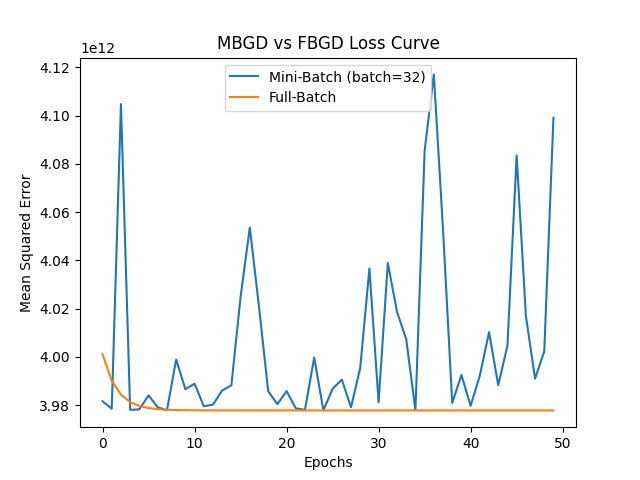
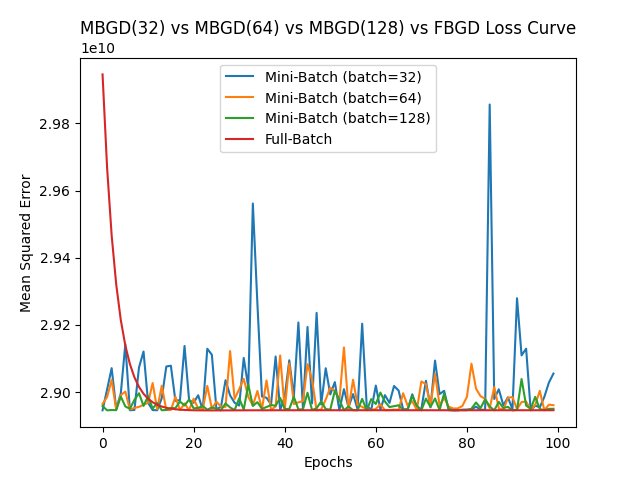
removed outliers and did hyperparameter tuning

diff --git a/model_analysis.py b/model_analysis.py
@@ -2,20 +2,35 @@ import numpy as np
 import pandas as pd
 import matplotlib.pyplot as plt
 from minibatch import MiniBatch
+from data_cleaning import Data_cleaning
+from hyperparameter_tuning import Hyperparameter_tuning
 from sklearn.model_selection import train_test_split
 from sklearn.preprocessing import StandardScaler
 from sklearn.metrics import mean_squared_error
+hyperparameter_tuning = Hyperparameter_tuning()
+data_cleaning = Data_cleaning()
 
 # load data
 data = pd.read_csv("data.csv")
 
-# get features for income
-X = pd.get_dummies(data.drop(columns=["Income"]), drop_first=True)
-y = data["Income"].values
+# set seed
+np.random.seed(60)
+
+# remove data with outliers 
+cleaned_data = data_cleaning.remove_outliers(data, ["Income", "Work_Experience"])
+
+# feature selection
+selected_features = ["Education_Level", "Occupation", "Location", "Work_Experience", "Employment_Status", "Gender"]
+
+X = cleaned_data[selected_features]
+y = cleaned_data["Income"].values
+
+X = pd.get_dummies(X, drop_first=True)
 
 # standardize features
 scaler = StandardScaler()
 X_scaled = scaler.fit_transform(X)
+#y = scaler.fit_transform(y.reshape(-1, 1)).flatten()
 
 # intercept 
 X_scaled = np.c_[np.ones(X_scaled.shape[0]), X_scaled]
@@ -23,35 +38,52 @@ X_scaled = np.c_[np.ones(X_scaled.shape[0]), X_scaled]
 # train/test split
 X_train, X_test, y_train, y_test = train_test_split(X_scaled, y, test_size=0.2, random_state=42)
 
-# call MBGD
-mb_model = MiniBatch()
-mb_loss = mb_model.fit(X_train, y_train, lr=0.01, epochs=50, batch_size=32)
+# hyperparameter tuning
+best_learning_rate, best_regularization_parameter, best_epoch = hyperparameter_tuning.get_best_param(X_train, X_test, y_train, y_test)
+
+# call MBGD batch size 32
+mb_model_size32 = MiniBatch()
+mb_loss_size32 = mb_model_size32.fit(X_train, y_train, lr=best_learning_rate, epochs=best_epoch, batch_size=32, regularization_parameter=best_regularization_parameter)
+
+# call MBGD2 batch size 64
+mb_model_size64 = MiniBatch()
+mb_loss_size64 = mb_model_size64.fit(X_train, y_train, lr=best_learning_rate, epochs=best_epoch, batch_size=64, regularization_parameter=best_regularization_parameter)
+
+# call MBGD2 batch size 128
+mb_model_size128 = MiniBatch()
+mb_loss_size128 = mb_model_size128.fit(X_train, y_train, lr=best_learning_rate, epochs=best_epoch, batch_size=128, regularization_parameter=best_regularization_parameter)
 
 # call FBGD
 fb_model = MiniBatch()
-fb_loss = fb_model.fit(X_train, y_train, lr=0.01, epochs=50, batch_size=None)
+fb_loss = fb_model.fit(X_train, y_train, lr=best_learning_rate, epochs=best_epoch, batch_size=None, regularization_parameter=best_regularization_parameter)
 
 # plot MSE for epochs
 plt.figure()
-plt.plot(mb_loss, label="Mini-Batch (batch=32)")
+plt.plot(mb_loss_size32, label="Mini-Batch (batch=32)")
+plt.plot(mb_loss_size64, label="Mini-Batch (batch=64)")
+plt.plot(mb_loss_size128, label="Mini-Batch (batch=128)")
 plt.plot(fb_loss, label="Full-Batch")
 plt.xlabel("Epochs")
 plt.ylabel("Mean Squared Error")
-plt.title("MBGD vs FBGD Loss Curve")
+plt.title("MBGD(32) vs MBGD(64) vs MBGD(128) vs FBGD Loss Curve")
 plt.legend()
 plt.savefig("mbgd_vs_fbgd_loss_curve.png")
 
 # predict 
-mb_pred = X_test.dot(mb_model.theta)
+mb_pred_size32 = X_test.dot(mb_model_size32.theta)
+mb_pred_size64 = X_test.dot(mb_model_size64.theta)
+mb_pred_size128 = X_test.dot(mb_model_size128.theta)
 fb_pred = X_test.dot(fb_model.theta)
 
 # calculate MSE
-mb_mse = mean_squared_error(y_test, mb_pred)
+mb_mse_size32 = mean_squared_error(y_test, mb_pred_size32)
+mb_mse_size64 = mean_squared_error(y_test, mb_pred_size64)
+mb_mse_size128 = mean_squared_error(y_test, mb_pred_size128)
 fb_mse = mean_squared_error(y_test, fb_pred)
 
 # MSE comparison
 plt.figure()
-plt.bar(["Mini-Batch", "Full-Batch"], [mb_mse, fb_mse])
+plt.bar(["Mini-Batch (32)", "Mini-Batch (64)", "Mini-Batch (128)", "Full-Batch"], [mb_mse_size32, mb_mse_size64, mb_mse_size128, fb_mse])
 plt.ylabel("Test MSE")
-plt.title("MBGD vs FBGD: Final Test MSE")
+plt.title("MBGD(32) vs MBGD(64) vs MBGD(128) vs FBGD: Final Test MSE")
 plt.savefig("mbgd_vs_fbgd_test_mse.png")

diff --git a/hyperparameter_tuning.py b/hyperparameter_tuning.py
@@ -1,0 +1,31 @@
+import itertools
+from sklearn.metrics import mean_squared_error
+from minibatch import MiniBatch
+
+class Hyperparameter_tuning:
+
+    def get_best_param(self, X_train, X_test, y_train, y_test):
+        param = {
+            'learning_rate': [0.001, 0.005, 0.01],
+            'regularization_parameter': [0.001, 0.005, 0.01],
+            'epoch': [30, 50, 100]
+        }
+
+        best_mse = float('inf')
+        best_learning_rate = 0
+        best_regularization_parameter = 0
+        best_epoch = 0
+
+        for learning_rate, regularization_parameter, epoch in itertools.product(param['learning_rate'], param['regularization_parameter'], param['epoch']):
+            model = MiniBatch()
+            model.fit(X_train, y_train, lr=learning_rate, epochs=epoch, batch_size=32, regularization_parameter=regularization_parameter)
+
+            y_pred = X_test.dot(model.theta)
+            mse = mean_squared_error(y_test, y_pred)
+
+            if mse < best_mse:
+                best_learning_rate = learning_rate
+                best_regularization_parameter = regularization_parameter
+                best_epoch = epoch
+
+        return best_learning_rate, best_regularization_parameter, best_epoch

diff --git a/minibatch.py b/minibatch.py
@@ -9,7 +9,7 @@ class MiniBatch:
     def __init__(self):
         self.theta = None
     
-    def fit(self, X, y, lr=0.01, epochs=20, batch_size=None, verbose=True):
+    def fit(self, X, y, lr=0.01, epochs=20, batch_size=None, verbose=True, regularization_parameter=0.01):
         self.theta = np.random.randn(X.shape[1])
         m = X.shape[0]
         loss_history = []
@@ -27,12 +27,13 @@ class MiniBatch:
                 y_pred = X_batch.dot(self.theta)
                 error = y_pred - y_batch
             
-                gradient = 2 * X_batch.T.dot(error)
+                gradient = 2 * X_batch.T.dot(error) + 2 * regularization_parameter * self.theta
                 avg_gradient = sum(gradient)/ X_batch.shape[0]
             
                 self.theta -= lr * avg_gradient
 
             y_train_pred = X.dot(self.theta)
             mse = mean_squared_error(y, y_train_pred)
-            loss_history.append(mse)
+            l2_penalty = regularization_parameter * np.sum(self.theta ** 2)
+            loss_history.append(mse + l2_penalty)
         return loss_history

diff --git a/data_cleaning.py b/data_cleaning.py
@@ -1,0 +1,11 @@
+class Data_cleaning:
+
+    def remove_outliers(self, data, columns):
+        for column in columns:
+            Q1 = data[column].quantile(0.25)
+            Q3 = data[column].quantile(0.75)
+            IQR = Q3 - Q1
+            lower_bound = Q1 - 1.5 * IQR
+            upper_bound = Q3 + 1.5 * IQR
+            data = data[(data[column] >= lower_bound) & (data[column] <= upper_bound)]
+        return data
